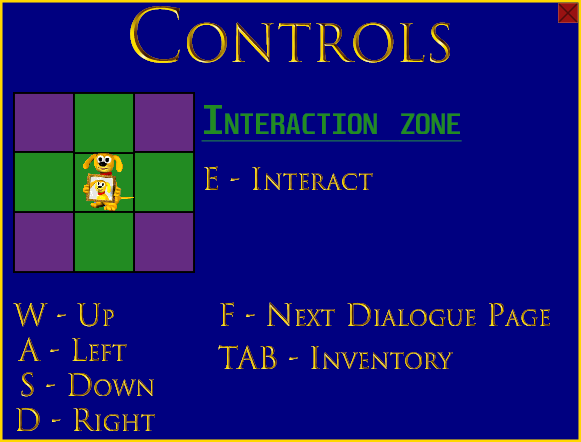
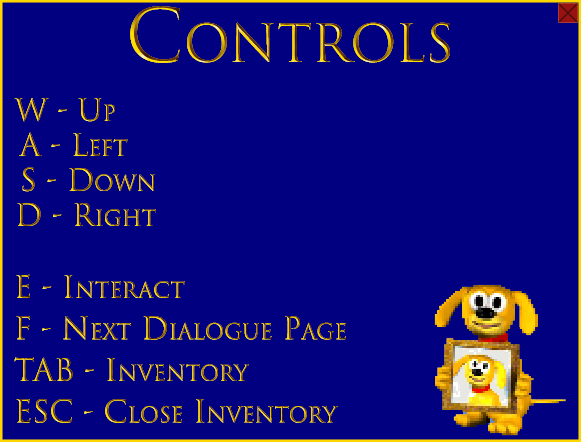
Added some user friendly UI to dialog, updated controls in main menu, inventory can be close on F now. Now ready to merge.

Changed region(s): [[0.0, 0.2059, 0.9914, 1.0], [0.3408, 0.9118, 0.5886, 0.9706], [0.4337, 0.3824, 0.6506, 0.4412]]

diff --git a/fucking.py b/fucking.py
@@ -147,13 +147,21 @@ def dialog_menu(dialogue, line_lenght,name,question):
 
 	w =screen.get_width()
 	h =screen.get_height()
+
 	page = 0
 	page_text = dialogue[page]
+
 	fontName = pg.font.SysFont("Comic Sans", 55)
 	fontTalk = pg.font.SysFont("Comic Sans", 55)
+	fontF = pg.font.SysFont("Comic Sans", 55)
+
 	#print(f"[DEBUG] name = {name} | type = {type(name)}")
+
+	f = fontF.render("F >>>",True,(100,100,255))
 	name_out = fontName.render(name, True ,"white")
 	last = 0
+
+	
 
 	# Relative sizes and positions
 	dialog_x = w * 0.0625
@@ -167,6 +175,9 @@ def dialog_menu(dialogue, line_lenght,name,question):
 	name_box_y = h * 0.575
 	name_box_width = w * 0.25
 	name_box_height = h * 0.075
+
+	f_x = dialog_x + dialog_width - 200
+	f_y = dialog_y + dialog_height - 100
 
 
 	interaction = True
@@ -188,6 +199,9 @@ def dialog_menu(dialogue, line_lenght,name,question):
 		pg.draw.rect(dialog_surface, (15, 23, 42), [dialog_x, dialog_y, dialog_width, dialog_height])
 		# Name Box
 		pg.draw.rect(dialog_surface, ("gray"), [name_box_x, name_box_y, name_box_width, name_box_height])
+		# F to continue
+		dialog_surface.blit(f,(f_x,f_y))
+
 
 		#Divide dialogue in several segments
 		page_text = dialogue[page]
@@ -852,7 +866,7 @@ class Inventory():
 
 
 
-					if pg.key.get_pressed()[pg.K_ESCAPE]:
+					if pg.key.get_pressed()[pg.K_ESCAPE] or pg.key.get_pressed()[pg.K_f]:
 						inventory_show = False
 
 
@@ -1354,7 +1368,7 @@ final_appartment = [
 # region Objects init
 
 levels = [karta1,chupep,appartment,appartment_1,basement_stasa,basement_yura,final_appartment]
-startLevel = 1
+startLevel = 0
 choosenLevel = levels[startLevel]
 # print("CL =",startLevel)
 effects = []
